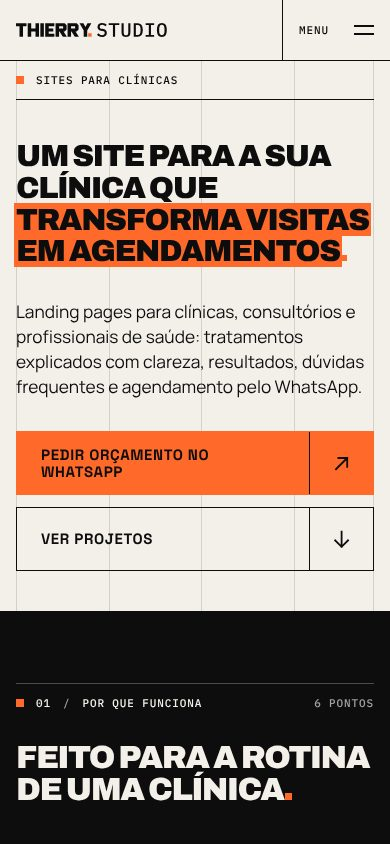
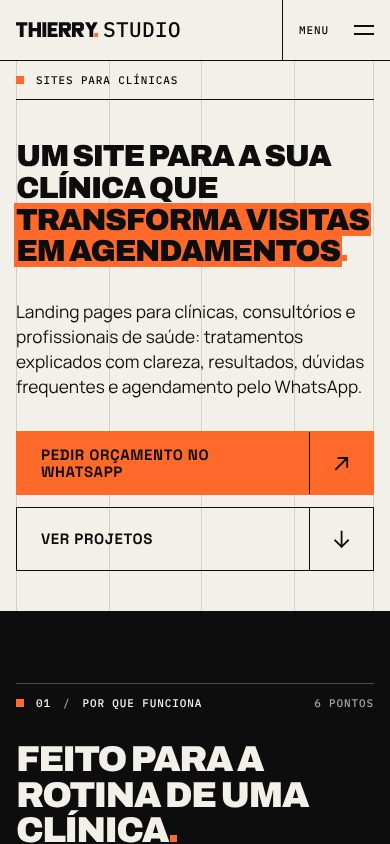
Mobile com a mesma presença do desktop
- Hero no celular e no tablet em composição de cartaz: cada palavra do título ocupa a largura inteira
- Barra fixa "Iniciar um projeto" + WhatsApp no rodapé da tela (some no topo, no contato e no rodapé)
- Títulos de seção, do manifesto, dos serviços e dos projetos maiores no celular
- "Ver case" sempre visível em telas de toque; assinatura do cabeçalho um pouco maior

Claude-Session: https://claude.ai/code/session_018eqFjanEQ77X5sWiiuCgkJ

Changed region(s): [[0.0308, 0.8626, 0.9538, 1.0], [0.0615, 0.0, 0.4615, 0.0616]]

diff --git a/app/components/MobileCta.vue b/app/components/MobileCta.vue
@@ -1,0 +1,47 @@
+<script setup lang="ts">
+// Barra fixa no rodapé da tela (celular e tablet): mantém a chamada "Iniciar um projeto" sempre à mão,
+// como o botão do cabeçalho no desktop. Some no topo da página, na seção de contato e no rodapé.
+import { waLink, waMessages } from '~/data/site'
+
+const route = useRoute()
+const show = ref(false)
+let io: IntersectionObserver | undefined
+const hidden = new Set<Element>()
+
+const watch = () => {
+  io?.disconnect()
+  hidden.clear()
+  show.value = false
+  if (!('IntersectionObserver' in window)) return
+  io = new IntersectionObserver((entries) => {
+    for (const e of entries) e.isIntersecting ? hidden.add(e.target) : hidden.delete(e.target)
+    show.value = hidden.size === 0
+  })
+  // enquanto o topo, o contato ou o rodapé estão na tela, a barra não aparece
+  document.querySelectorAll('main > section:first-child, main > article > header, #contato, body footer, #menu-mobile.is-open').forEach(el => io!.observe(el))
+}
+onMounted(() => nextTick(watch))
+useRouter().afterEach(() => setTimeout(watch, 450))
+onBeforeUnmount(() => io?.disconnect())
+</script>
+
+<template>
+  <div class="mobile-cta no-print" :class="{ 'is-on': show }" :inert="!show">
+    <NuxtLink :to="{ path: '/', hash: '#contato' }" class="mobile-cta__main t-label">Iniciar um projeto <ArrowIcon dir="up-right" /></NuxtLink>
+    <a :href="waLink(waMessages.start)" target="_blank" rel="noopener noreferrer" class="mobile-cta__wa t-label">WhatsApp<span class="sr-only"> (abre em nova aba)</span></a>
+  </div>
+</template>
+
+<style scoped>
+.mobile-cta {
+  position: fixed; left: 0; right: 0; bottom: 0; z-index: 40; display: grid; grid-template-columns: 1fr auto;
+  border-top: 1px solid var(--color-carbon); transform: translate3d(0, 101%, 0); transition: transform 0.45s var(--ease-brand);
+  padding-bottom: env(safe-area-inset-bottom);
+  background: var(--color-carbon);
+}
+.mobile-cta.is-on { transform: none; }
+.mobile-cta__main { display: flex; align-items: center; justify-content: space-between; gap: 1rem; min-height: 3.5rem; padding-inline: var(--gutter); background: var(--color-signal); color: var(--color-carbon); font-size: 0.8125rem; }
+.mobile-cta__wa { display: flex; align-items: center; padding-inline: 1.25rem; background: var(--color-carbon); color: var(--color-paper); font-size: 0.8125rem; }
+@media (width >= 64rem) { .mobile-cta { display: none; } }
+@media (prefers-reduced-motion: reduce) { .mobile-cta { transition: none; } }
+</style>

diff --git a/app/components/HeroSection.vue b/app/components/HeroSection.vue
@@ -1,6 +1,9 @@
 <script setup lang="ts">
 import { site } from '~/data/site'
 
+// Largura de cada palavra (com o ponto), em em: usada para ajustar a linha à largura da tela no celular
+const fit = [4.36, 6.22, 7.9]
+
 const meta = [
   `${site.location.city} — ${site.location.state} / ${site.location.country}`,
   'Atendimento em todo o Brasil',
@@ -21,7 +24,7 @@ const meta = [
       <div class="hero-stage">
         <h1 id="hero-title" class="t-display hero-title">
           <span class="sr-only">{{ site.brand }}, de {{ site.name }} — sites, sistemas personalizados e inteligência artificial: </span>
-          <span v-for="(word, i) in ['Design', 'Software', 'Inteligência']" :key="word" class="line"><span>{{ word }}<span class="dot hero-dot" :style="{ '--i': i }" aria-hidden="true" /><span class="sr-only">. </span></span></span>
+          <span v-for="(word, i) in ['Design', 'Software', 'Inteligência']" :key="word" class="line" :style="{ '--fit': fit[i] }"><span>{{ word }}<span class="dot hero-dot" :style="{ '--i': i }" aria-hidden="true" /><span class="sr-only">. </span></span></span>
         </h1>
         <HeroComposition class="hero-art" />
       </div>
@@ -51,6 +54,10 @@ const meta = [
 .hero-title { font-size: var(--mega); line-height: 0.95; }
 .hero-dot { animation: stamp 0.5s var(--ease-brand) both; animation-delay: calc(0.35s + var(--i) * 0.14s); transform-origin: 0 100%; }
 .hero-art { margin-top: clamp(1.5rem, 5vw, 2.5rem); }
+@media (width < 64rem) {
+  /* Composição de cartaz: cada linha do título é ajustada à largura da tela */
+  .hero-title .line { font-size: calc((100vw - 2 * var(--gutter)) / var(--fit)); line-height: 0.93; }
+}
 @media (width >= 64rem) {
   /* A composição ocupa o espaço à direita das duas primeiras linhas (mais curtas) do título */
   .hero-art { position: absolute; right: 0; margin: 0; height: calc(var(--mega) * 1.52); top: calc(clamp(1.75rem, 3.4vw, 4rem) + var(--mega) * 0.13); width: auto; }

diff --git a/app/components/ProjectShowcase.vue b/app/components/ProjectShowcase.vue
@@ -67,6 +67,9 @@ const domain = computed(() => props.project.url?.replace(/^https?:\/\/(www\.)?/,
 .showcase__media:hover .showcase__cue, .showcase__media:focus-visible .showcase__cue { transform: none; }
 .showcase__body { display: grid; gap: 0.9rem; }
 .showcase__title { font-size: clamp(1.6rem, 2.9vw, 3.25rem); line-height: 0.92; letter-spacing: -0.04em; text-wrap: balance; }
+@media (width < 48rem) { .showcase__title { font-size: clamp(1.75rem, 8.4vw, 3rem); } }
+/* Sem hover (toque): a chamada "Ver case" fica sempre visível */
+@media (hover: none) { .showcase__cue { transform: none; } }
 .showcase__title a { background: linear-gradient(var(--color-signal), var(--color-signal)) 0 100% / 0 0.08em no-repeat; transition: background-size 0.45s var(--ease-brand); }
 .showcase__title a:hover { background-size: 100% 0.08em; }
 

diff --git a/app/components/ServicesSection.vue b/app/components/ServicesSection.vue
@@ -58,6 +58,7 @@ const related = (slugs: string[]) => slugs.map(findProject).filter(p => !!p)
 }
 @media (width >= 48rem) { .service__summary { grid-template-columns: calc((100% - 11 * var(--gap)) / 12) minmax(0, 1fr) auto; } }
 .service__title { font-size: clamp(1.3rem, 6.1vw, 6rem); line-height: 1; }
+@media (width < 48rem) { .service__title { font-size: clamp(1.3rem, 8vw, 3rem); } }
 .service__summary:hover { background: var(--color-carbon); color: var(--color-paper); padding-inline: clamp(0.5rem, 1.2vw, 1.25rem); }
 .service__toggle { position: relative; width: clamp(1.5rem, 2.6vw, 2.75rem); aspect-ratio: 1; display: block; }
 .service__toggle i { position: absolute; inset: 0; margin: auto; background: currentColor; transition: transform 0.45s var(--ease-brand), background-color 0.25s; }

diff --git a/app/components/AppHeader.vue b/app/components/AppHeader.vue
@@ -60,7 +60,7 @@ onBeforeUnmount(() => {
   <header class="theme-paper site-header sticky top-0 z-50 border-b border-line">
     <div class="wrap flex h-(--header-h) items-stretch">
       <NuxtLink :to="{ path: '/' }" class="flex items-center pr-6 lg:pr-10" :aria-label="`${site.brand} — página inicial`" @click="close(false)">
-        <BrandMark variant="lockup" class="h-3.5 w-auto sm:h-4 xl:h-[1.15rem]" />
+        <BrandMark variant="lockup" class="h-[0.95rem] w-auto sm:h-4 xl:h-[1.15rem]" />
       </NuxtLink>
 
       <p class="t-label hidden items-center whitespace-nowrap border-l border-line px-6 text-muted 2xl:flex">{{ site.tagline }}</p>

diff --git a/app/components/BrandManifesto.vue b/app/components/BrandManifesto.vue
@@ -35,6 +35,7 @@ const statements = [
 
 <style scoped>
 .manifesto__title { font-size: clamp(1.6rem, 8.5vw, 10rem); line-height: 1; }
+@media (width < 48rem) { .manifesto__title { font-size: 11.4vw; } }
 .manifesto__hatch { position: absolute; top: 0; right: 0; width: min(34vw, 30rem); height: 100%; color: var(--color-carbon); opacity: 0.16; mask-image: linear-gradient(to left, #000, transparent); }
 .manifesto__item { display: grid; gap: 1.25rem; align-content: start; padding-block: 1.5rem 2rem; border-bottom: 1px solid var(--rule); }
 @media (width >= 48rem) {

diff --git a/app/assets/css/main.css b/app/assets/css/main.css
@@ -127,6 +127,14 @@
   color: var(--fg);
 }
 
+/* No celular os títulos ocupam mais da largura: a mesma presença que têm no desktop */
+@media (width < 48rem) {
+  :root {
+    --text-giant: clamp(2rem, 10.2vw, 5rem);
+    --text-huge: clamp(2rem, 9.2vw, 4rem);
+  }
+}
+
 @layer base {
   html {
     scroll-behavior: smooth;

diff --git a/app/app.vue b/app/app.vue
@@ -11,6 +11,7 @@ useHead({ link: [{ rel: 'preload', as: 'font', type: 'font/woff2', href: archivo
     <AppHeader />
     <NuxtPage />
     <AppFooter />
+    <MobileCta />
   </div>
 </template>
 
